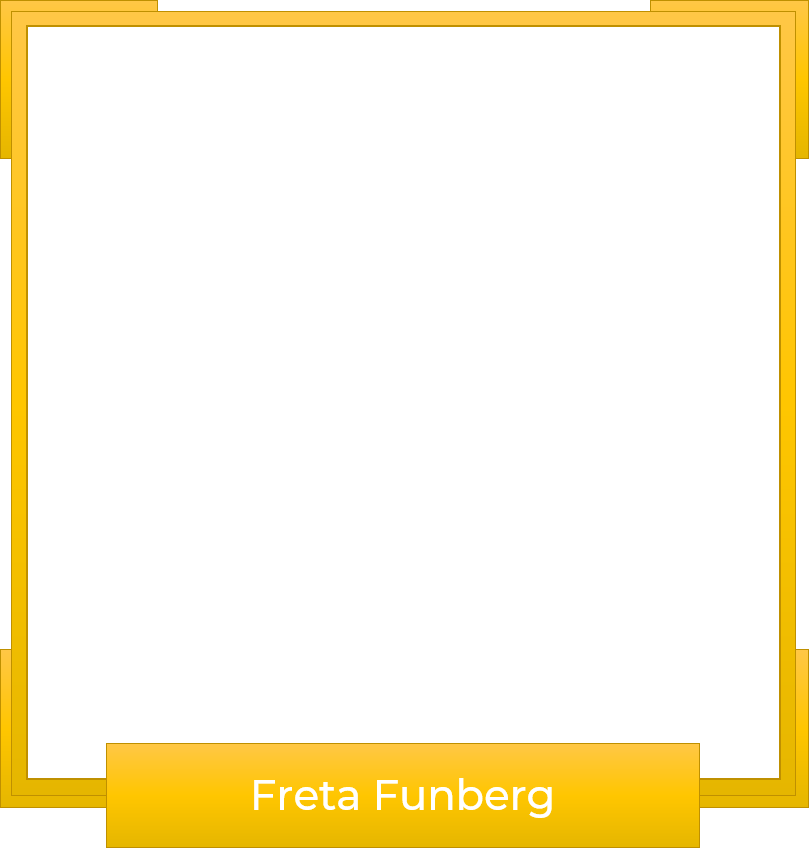
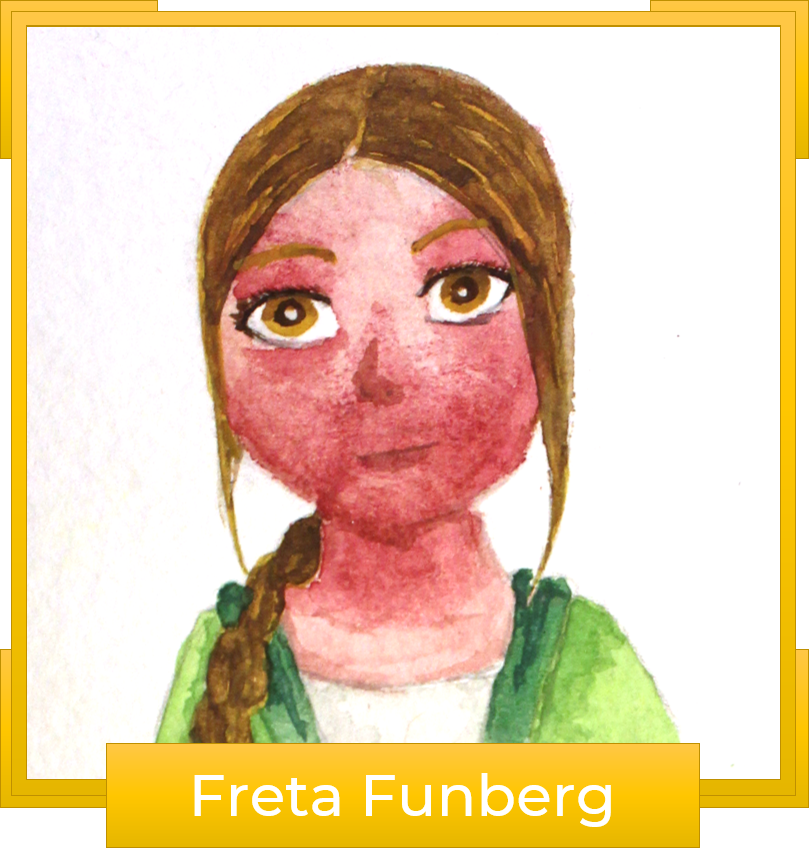
added function to display players on BattleScreen

diff --git a/app/src/androidTest/java/uk/ac/qub/eeecs/gage/PlayerUnitTest.java b/app/src/androidTest/java/uk/ac/qub/eeecs/gage/PlayerUnitTest.java
@@ -23,72 +23,72 @@ public class PlayerUnitTest {
         aScreen = new TestGameScreen(aGame){};
 
         //set up comparison hero
-        aHero = new Hero(aScreen);
-        aHero.setPlayerAvatar(aGame.getAssetManager().getBitmap("freta"));
+        aHero = new Hero();
+        //aHero.setPlayerAvatar(aGame.getAssetManager().getBitmap("freta"));
 
         //set up comparison villain
-        aVillain = new Villain(aScreen);
-        aVillain.setPlayerAvatar(aGame.getAssetManager().getBitmap("ronald"));
+        aVillain = new Villain();
+        //aVillain.setPlayerAvatar(aGame.getAssetManager().getBitmap("ronald"));
 
     }
 
+    // check player avatar is successfully set for hero
     @Test
     public void setUpHeroAvatar(){
-        Hero tHero = new Hero(aScreen);
-        tHero.setPlayerAvatar(aGame.getAssetManager().getBitmap("freta"));
-        // check incorrect avatar has been set for hero
-        System.out.println(tHero.getPlayerAvatar());
+        Hero tHero = new Hero();
+        //tHero.setPlayerAvatar(aGame.getAssetManager().getBitmap("freta"));
+        //System.out.println(tHero.getPlayerAvatar());
     }
 
+    // check player avatar is the correct one for hero
     @Test
     public void setUpHeroCorrectAvatar(){
-        Hero tHero = new Hero(aScreen);
-        tHero.setPlayerAvatar(aGame.getAssetManager().getBitmap("freta"));
-        // check correct avatar has been set for hero
-        assertEquals(aHero.getPlayerAvatar(), tHero.getPlayerAvatar());
+        Hero tHero = new Hero();
+        //tHero.setPlayerAvatar(aGame.getAssetManager().getBitmap("freta"));
+        //assertEquals(aHero.getPlayerAvatar(), tHero.getPlayerAvatar());
     }
 
+    // check if player name has been added for hero
     @Test
     public void hasHeroPlayerName(){
-        Hero tHero = new Hero(aScreen);
-        // check correct name is displayed for hero
+        Hero tHero = new Hero();
         System.out.println(tHero.getPlayerName());
     }
 
+    // check correct player name has been added for hero
     @Test
     public void correctHeroPlayerName(){
-        Hero tHero = new Hero(aScreen);
-        // check correct name is displayed for hero
+        Hero tHero = new Hero();
         assertEquals("Freta Funberg", tHero.getPlayerName());
     }
 
+    // check player avatar is successfully set for villain
     @Test
     public void setUpVillainAvatar(){
-        Villain tVillain = new Villain(aScreen);
-        tVillain.setPlayerAvatar(aGame.getAssetManager().getBitmap("ronald"));
-        // check incorrect avatar has been set for villain
-        System.out.println(tVillain.getPlayerAvatar());
+        Villain tVillain = new Villain();
+        //tVillain.setPlayerAvatar(aGame.getAssetManager().getBitmap("ronald"));
+        //System.out.println(tVillain.getPlayerAvatar());
     }
 
+    // check player avatar is the correct one for villain
     @Test
     public void setUpVillainCorrectAvatar(){
-        Villain tVillain = new Villain(aScreen);
-        tVillain.setPlayerAvatar(aGame.getAssetManager().getBitmap("ronald"));
-        // check correct avatar has been set for villain
-        assertEquals(tVillain.getPlayerAvatar(), tVillain.getPlayerAvatar());
+        Villain tVillain = new Villain();
+        //tVillain.setPlayerAvatar(aGame.getAssetManager().getBitmap("ronald"));
+        //assertEquals(tVillain.getPlayerAvatar(), tVillain.getPlayerAvatar());
     }
 
+    // check if player name has been added for villain
     @Test
     public void hasVillainPlayerName(){
-        Villain tVillain = new Villain(aScreen);
-        // check correct name is displayed for villain
+        Villain tVillain = new Villain();
         System.out.println(tVillain.getPlayerName());
     }
 
+    //check correct player name has been added for villain
     @Test
     public void correctVillainPlayerName(){
-        Villain tVillain = new Villain(aScreen);
-        // check correct name is displayed for villain
+        Villain tVillain = new Villain();
         assertEquals("Ronald Rump", tVillain.getPlayerName());
     }
 

diff --git a/app/src/main/java/uk/ac/qub/eeecs/game/cardDemo/Player.java b/app/src/main/java/uk/ac/qub/eeecs/game/cardDemo/Player.java
@@ -1,8 +1,15 @@
 package uk.ac.qub.eeecs.game.cardDemo;
 
-import android.graphics.Bitmap;
 import uk.ac.qub.eeecs.gage.world.GameScreen;
 import uk.ac.qub.eeecs.gage.world.Sprite;
+
+/**
+ *
+ * Created by [Irene Bhuiyan]
+ * This class represents a general player in the game.
+ * Contains traits and behaviours both hero and villain share.
+ *
+ */
 
 public abstract class Player extends Sprite {
 
@@ -13,17 +20,8 @@ public abstract class Player extends Sprite {
     // define the player
     protected String playerName;
     protected Deck playerDeck;
-    protected Bitmap playerAvatar;
 
-    // player avatar
-    protected static final float DEFAULT_AVATAR_WIDTH = 0.88f;
-    protected static final float DEFAULT_AVATAR_HEIGHT = 0.88f;
-    protected static final float DEFAULT_AVATAR_X = 0.88f;
-    protected static final float DEFAULT_AVATAR_Y = 0.88f;
-    protected float x;
-    protected float y;
-
-    protected static GameScreen gameScreen;
+    protected GameScreen gameScreen;
 
     // /////////////////////////////////////////////////////////////////////////
     // Constructors
@@ -34,11 +32,10 @@ public abstract class Player extends Sprite {
      *
      * @param playerName Name of the player
      * @param playerDeck Decks of cards belonging to the player
-     * @param gameScreen Gamescreen to which this player belongs
      *
      */
-    public Player(String playerName, Deck playerDeck, GameScreen gameScreen) {
-        super(DEFAULT_AVATAR_X, DEFAULT_AVATAR_Y, DEFAULT_AVATAR_WIDTH, DEFAULT_AVATAR_HEIGHT, null, gameScreen);
+    public Player(String playerName, Deck playerDeck) {
+        super(null);
 
         this.playerName = playerName;
         this.playerDeck = playerDeck;
@@ -55,16 +52,10 @@ public abstract class Player extends Sprite {
     // getter to return the player deck
     public Deck getPlayerDeck() { return playerDeck; }
 
-    // getter to return the player avatar
-    public Bitmap getPlayerAvatar(){ return playerAvatar; }
-
     // setter to set the GameScreen the player has been called in
-    public static void setGameScreen(GameScreen gameScreenValue){ gameScreen = gameScreenValue; }
+    public void setGameScreen(GameScreen gameScreen){ this.gameScreen = gameScreen; }
 
     // setter to set player deck
     public void setPlayerDeck(Deck playerDeck) { this.playerDeck = playerDeck; }
-
-    // setter to set player avatar
-    public void setPlayerAvatar(Bitmap playerAvatar){ this.playerAvatar = playerAvatar; }
 
 }

diff --git a/app/src/main/java/uk/ac/qub/eeecs/game/cardDemo/BattleScreen.java b/app/src/main/java/uk/ac/qub/eeecs/game/cardDemo/BattleScreen.java
@@ -1,7 +1,6 @@
 package uk.ac.qub.eeecs.game.cardDemo;
 
 import android.graphics.Bitmap;
-import android.graphics.Color;
 import android.graphics.Paint;
 
 import java.util.ArrayList;
@@ -14,7 +13,6 @@ import uk.ac.qub.eeecs.gage.engine.graphics.IGraphics2D;
 import uk.ac.qub.eeecs.gage.engine.input.Input;
 import uk.ac.qub.eeecs.gage.engine.input.TouchEvent;
 import uk.ac.qub.eeecs.gage.ui.PushButton;
-import uk.ac.qub.eeecs.gage.util.BoundingBox;
 import uk.ac.qub.eeecs.gage.world.GameObject;
 import uk.ac.qub.eeecs.gage.world.GameScreen;
 import uk.ac.qub.eeecs.gage.world.LayerViewport;
@@ -32,9 +30,8 @@ public class BattleScreen extends GameScreen {
     private boolean paused = false;
     private ScreenViewport ScreenViewport;
     private LayerViewport LayerViewport;
-    private GameObject pauseMenu;
+    private GameObject pauseMenu, heroAvatarImg, villainAvatarImg;
     private Paint paint;
-
 
     private AssetManager assetManager = mGame.getAssetManager();
 
@@ -157,6 +154,8 @@ public class BattleScreen extends GameScreen {
         //Add Player Decks to Screen [Niamh McCartney]
         AddPlayerDecks(elapsedTime, graphics2D, "HeroCardBackground");
 
+        // display players [Irene Bhuiyan]
+        displayPlayers(elapsedTime, graphics2D);
 
     }
 
@@ -250,4 +249,25 @@ public class BattleScreen extends GameScreen {
         // Load the various images used by the cards
         mGame.getAssetManager().loadAssets("txt/assets/CardDemoScreenAssets.JSON");
     }
+
+    /**
+     *
+     * Created by [Irene Bhuiyan]
+     * Displays hero and villain on screen.
+     *
+     */
+    private void displayPlayers(ElapsedTime elapsedTime, IGraphics2D graphics2D){
+
+        //display hero
+        Bitmap heroAvatar = mGame.getAssetManager().getBitmap("freta");
+        heroAvatarImg = new GameObject(50.0f, 60.0f, 100.0f, 100.0f, heroAvatar, this);
+        heroAvatarImg.draw(elapsedTime, graphics2D, LayerViewport, ScreenViewport);
+
+        //display villain
+        Bitmap villainAvatar = mGame.getAssetManager().getBitmap("ronald");
+        villainAvatarImg = new GameObject(50.0f, 260.0f, 100.0f, 100.0f, villainAvatar, this);
+        villainAvatarImg.draw(elapsedTime, graphics2D, LayerViewport, ScreenViewport);
+
+    }
+
 }

diff --git a/app/src/main/java/uk/ac/qub/eeecs/game/cardDemo/Villain.java b/app/src/main/java/uk/ac/qub/eeecs/game/cardDemo/Villain.java
@@ -1,10 +1,10 @@
 package uk.ac.qub.eeecs.game.cardDemo;
 
-import uk.ac.qub.eeecs.gage.world.GameScreen;
-
 /**
+ *
  * Created by [Irene Bhuiyan]
  * This class represents a villain in the game (using traits and behaviours from Player).
+ *
  */
 
 public class Villain extends Player {
@@ -14,15 +14,13 @@ public class Villain extends Player {
     // /////////////////////////////////////////////////////////////////////////
 
     /**
-     * Create a new villain.
      *
-     * @param playerName Name of the player
-     * @param gameScreen Gamescreen to which this player belongs
+     * Create a new villain.
      *
      */
 
-    public Villain(GameScreen gameScreen){
-        super("Ronald Rump", null, gameScreen);
+    public Villain(){
+        super("Ronald Rump", null);
     }
 
 }

diff --git a/app/src/main/java/uk/ac/qub/eeecs/game/cardDemo/Hero.java b/app/src/main/java/uk/ac/qub/eeecs/game/cardDemo/Hero.java
@@ -1,10 +1,10 @@
 package uk.ac.qub.eeecs.game.cardDemo;
 
-import uk.ac.qub.eeecs.gage.world.GameScreen;
-
 /**
+ *
  * Created by [Irene Bhuiyan]
  * This class represents a hero in the game (using traits and behaviours from Player).
+ *
  */
 
 public class Hero extends Player {
@@ -14,14 +14,13 @@ public class Hero extends Player {
     // /////////////////////////////////////////////////////////////////////////
 
     /**
-     * Create a new Hero.
      *
-     * @param gameScreen Gamescreen to which this player belongs
+     * Create a new Hero.
      *
      */
 
-    public Hero(GameScreen gameScreen){
-        super("Freta Funberg", null, gameScreen);
+    public Hero(){
+        super("Freta Funberg", null);
 
     }
 

diff --git a/app/src/main/java/uk/ac/qub/eeecs/gage/Game.java b/app/src/main/java/uk/ac/qub/eeecs/gage/Game.java
@@ -293,10 +293,10 @@ public abstract class Game extends Fragment {
         mCardStore = new CardStore(this);
 
         //Create the Hero[Niamh McCartney]
-        mHero = new Hero(null);
+        mHero = new Hero();
 
         //Create the Villain[Niamh McCartney]
-        mVillain = new Villain(null);
+        mVillain = new Villain();
 
     }
 
